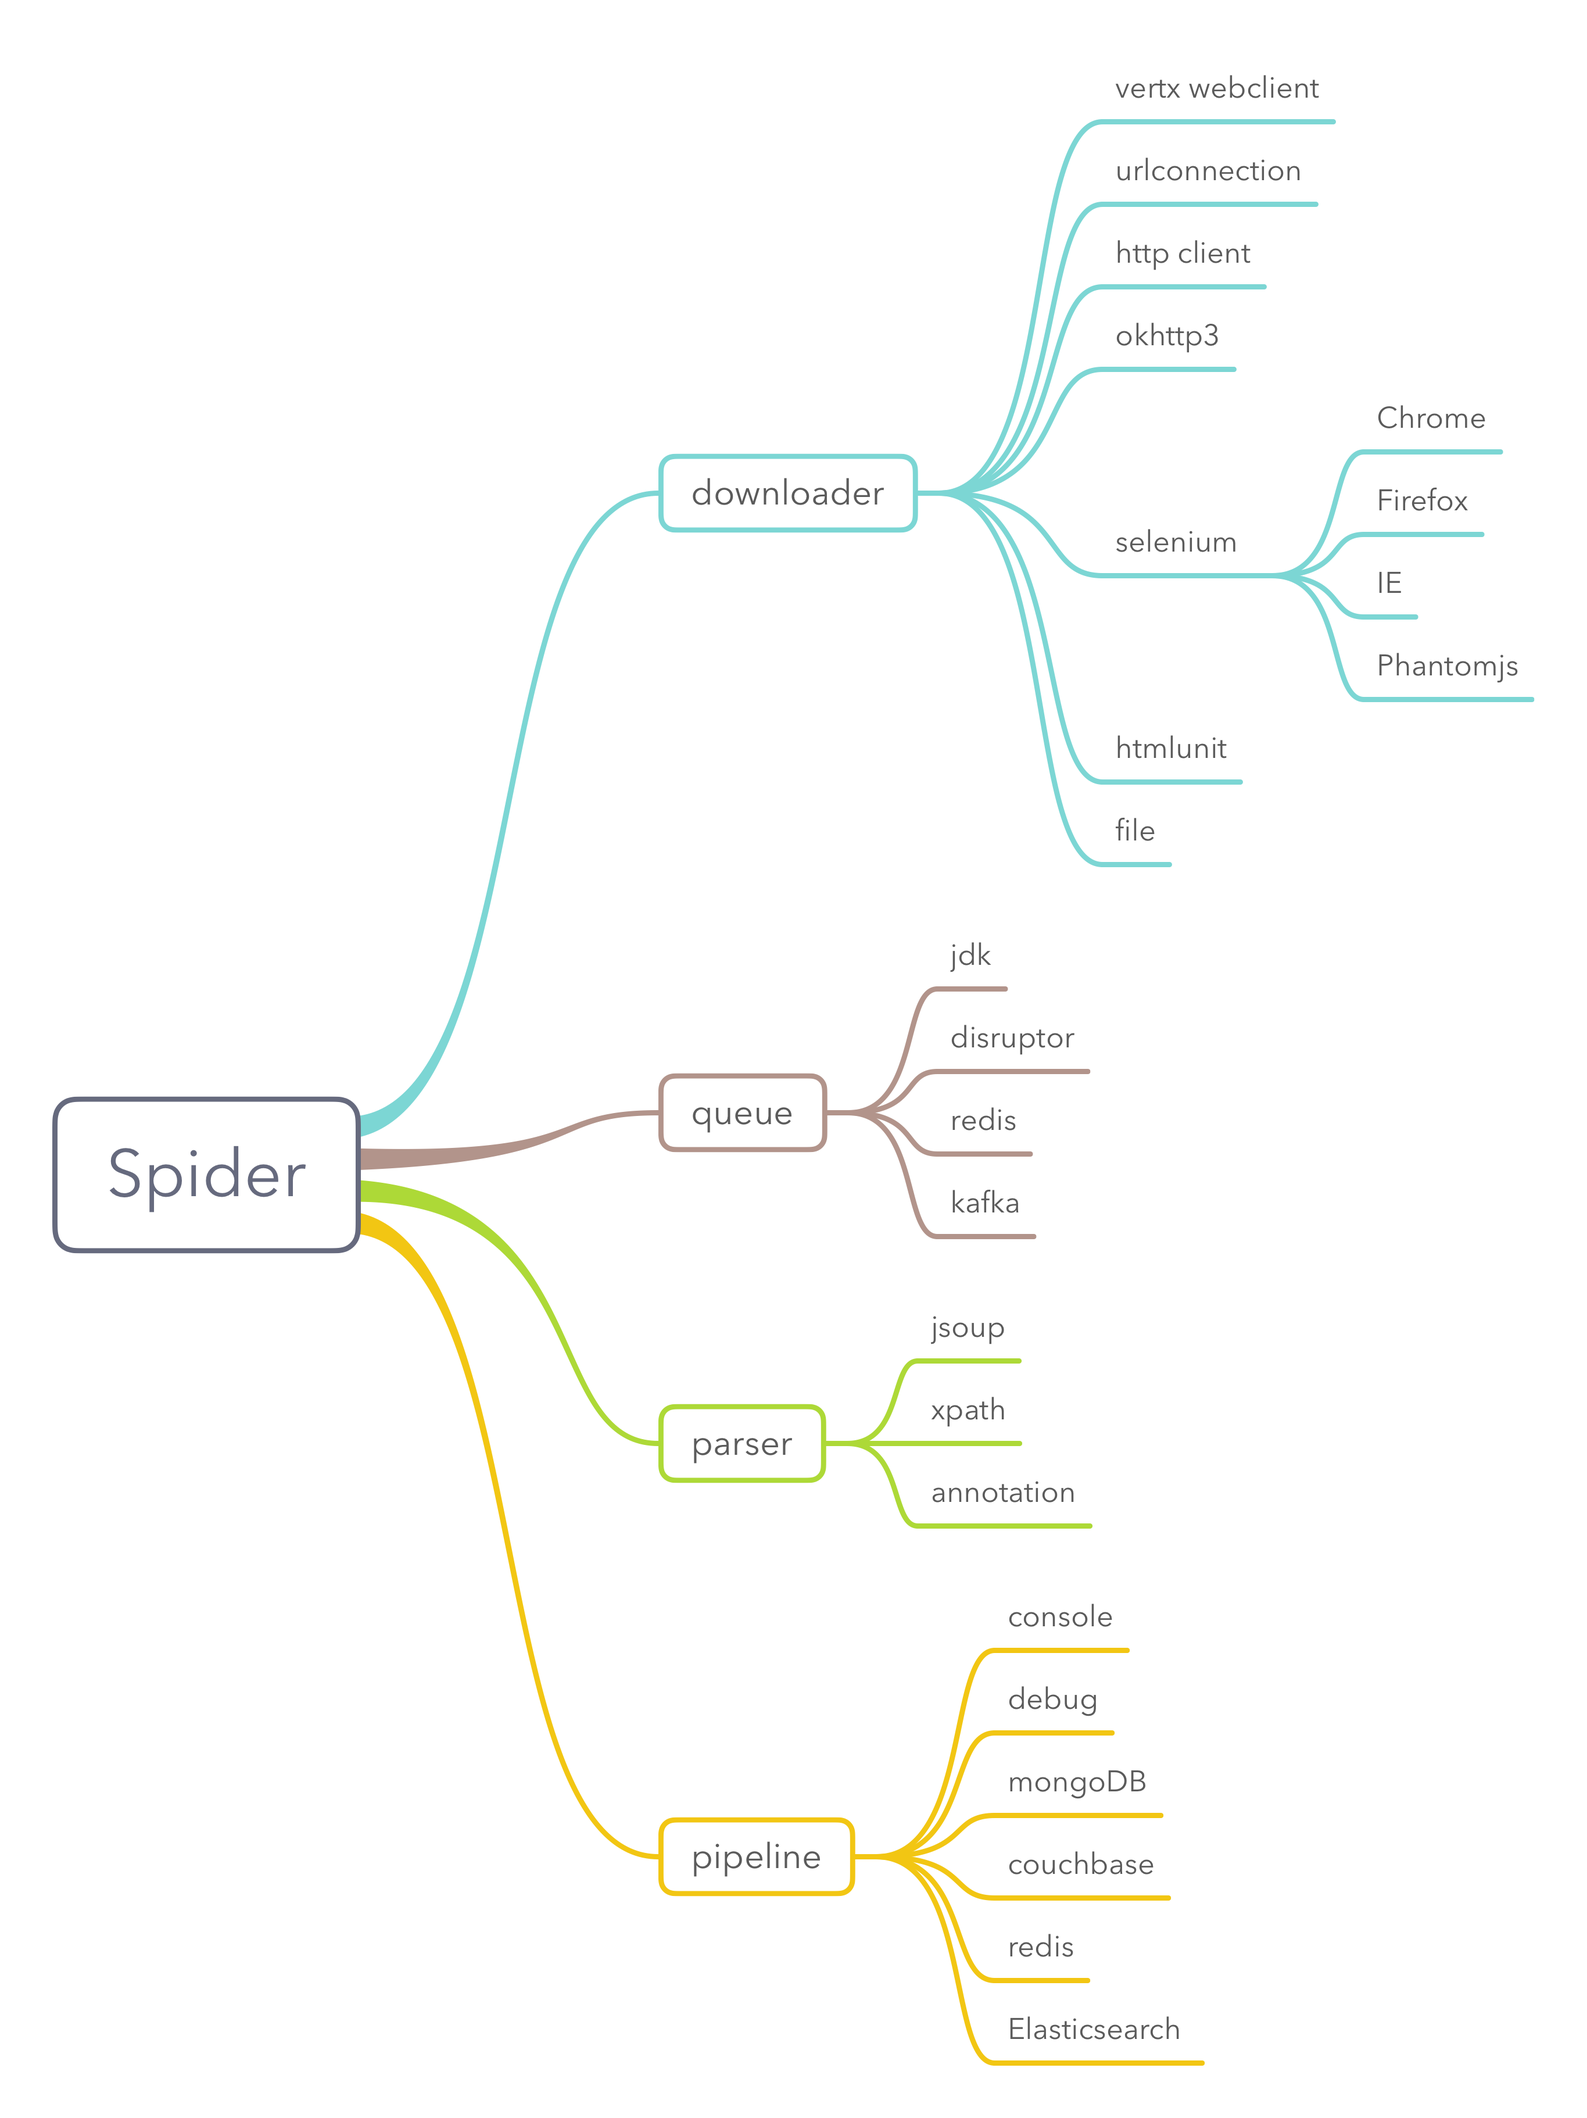
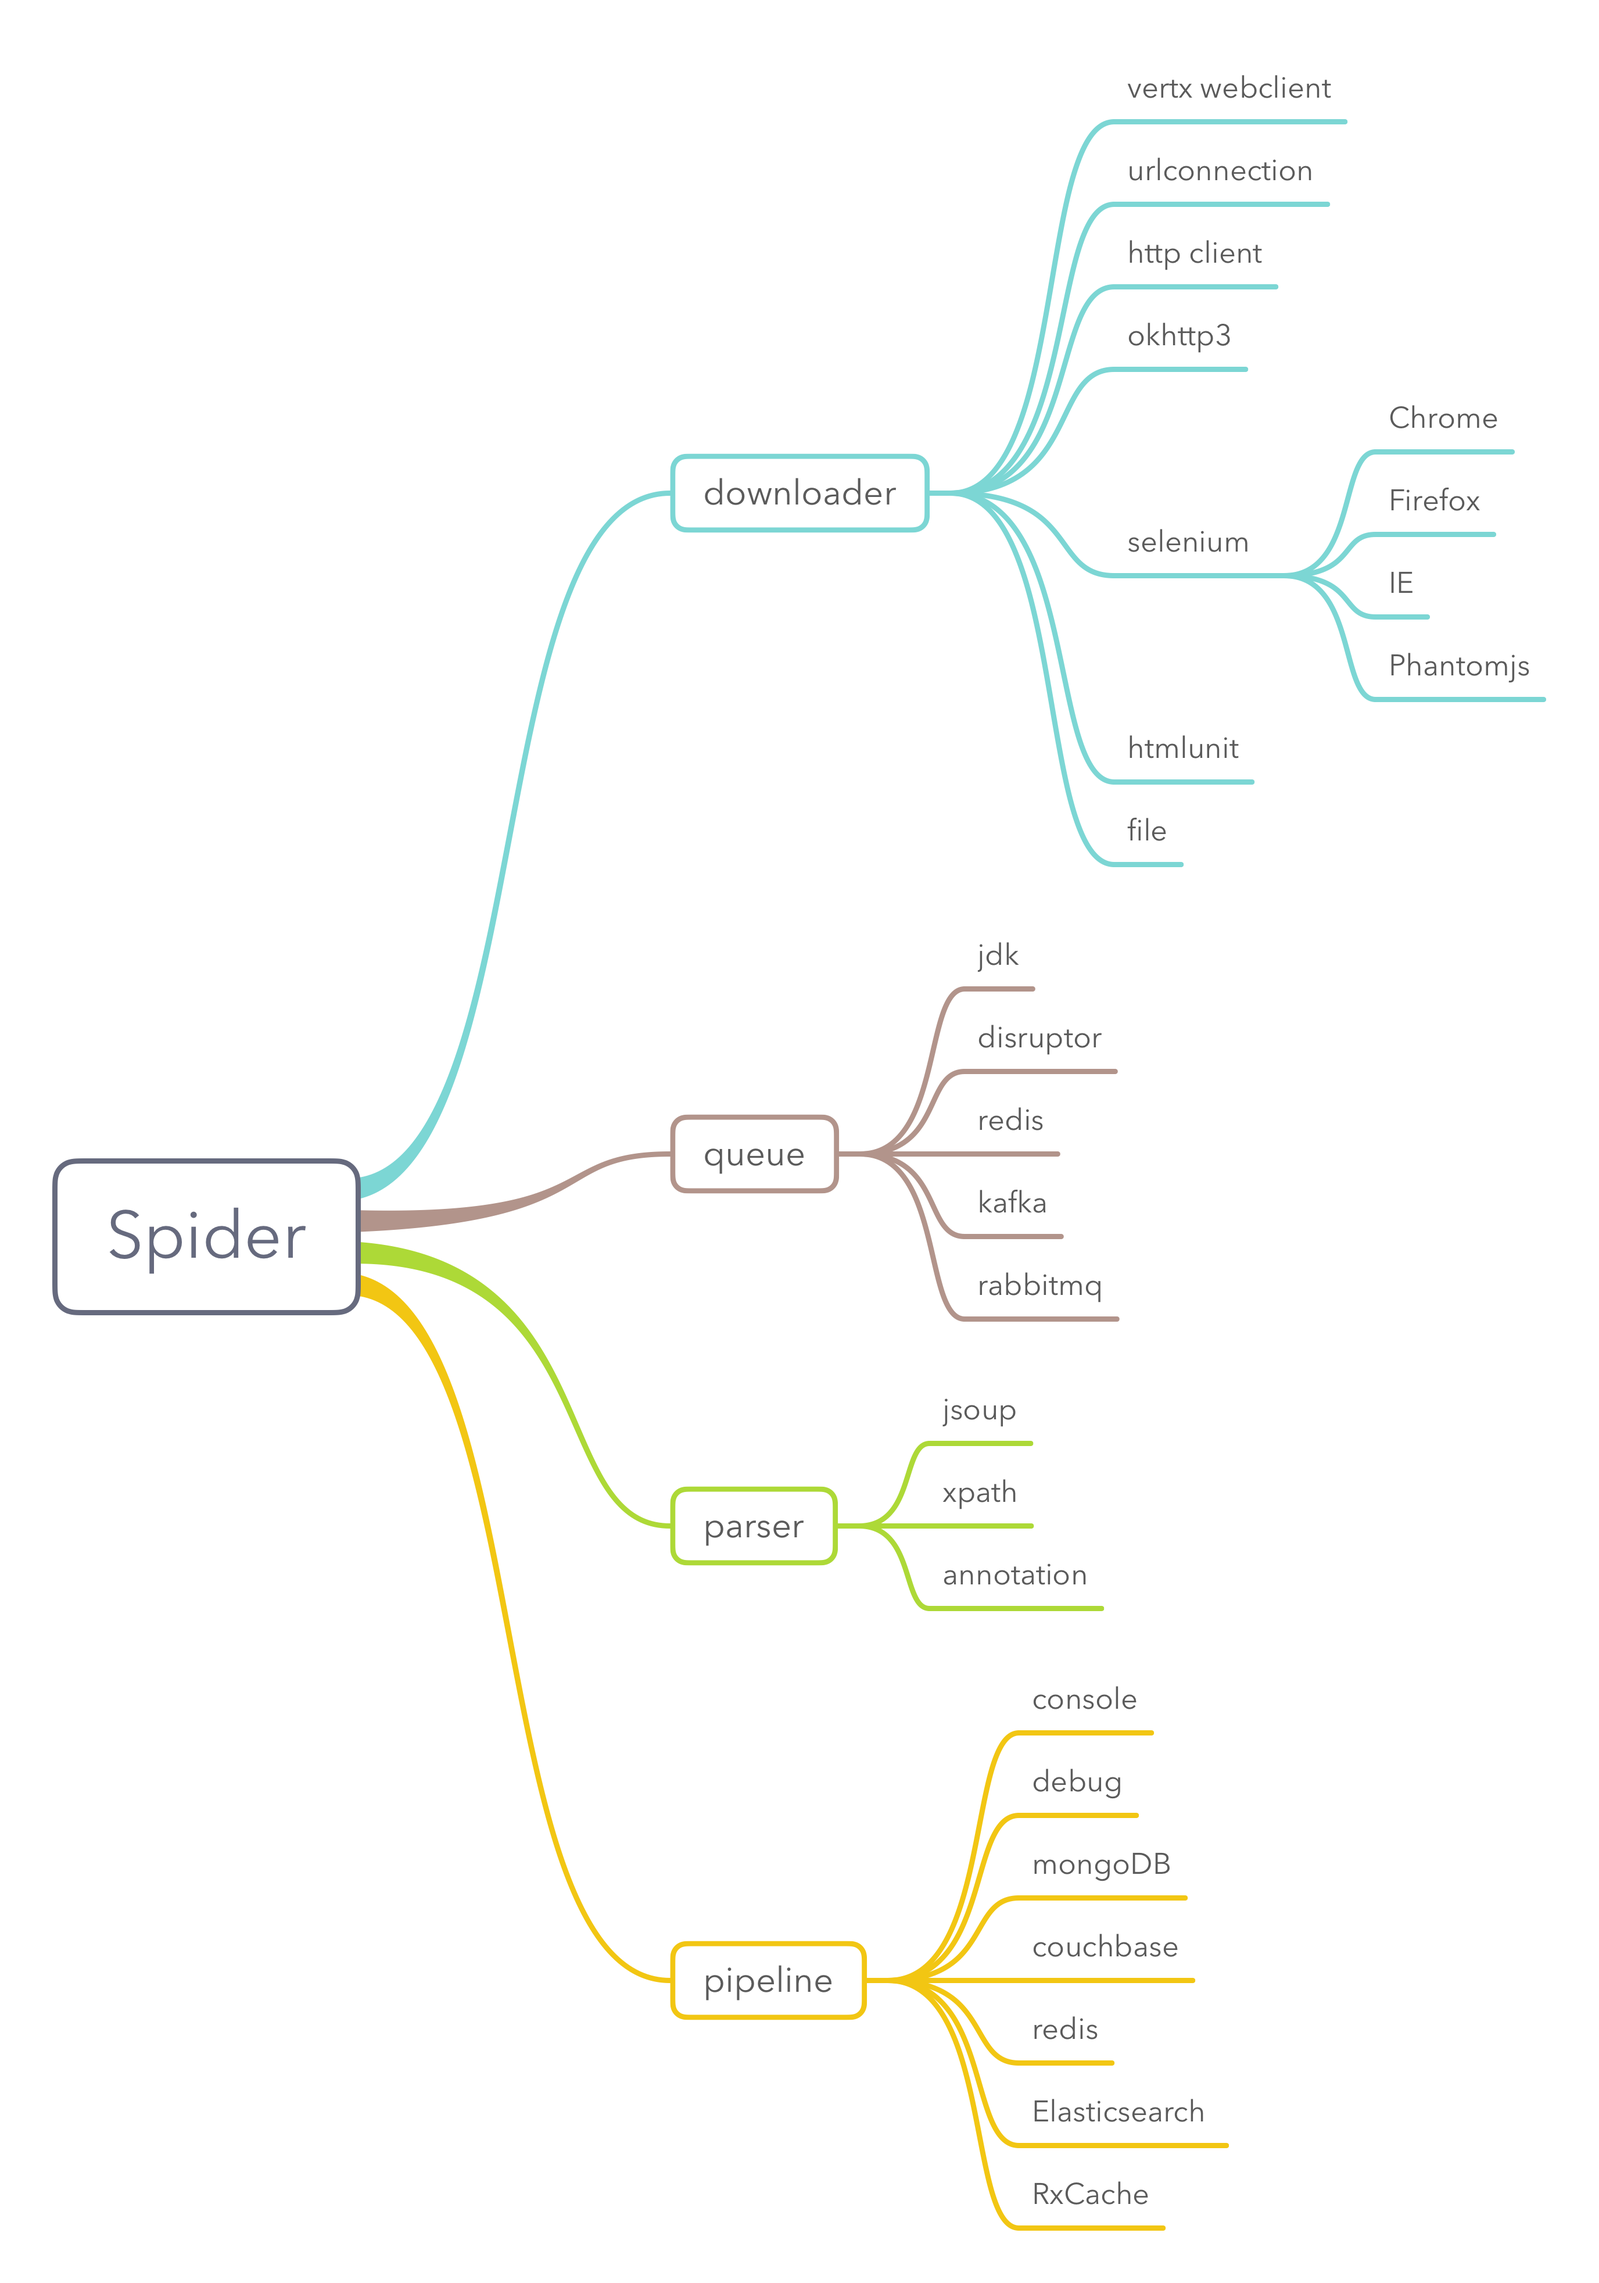
update readme.md

diff --git a/README.md b/README.md
@@ -32,32 +32,32 @@ repositories {
 netdiscovery-core
 
 ```groovy
-implementation 'com.cv4j.netdiscovery:netdiscovery-core:0.3.0'
+implementation 'com.cv4j.netdiscovery:netdiscovery-core:0.3.1'
 
 ```
 
 netdiscovery-extra
 
 ```groovy
-implementation 'com.cv4j.netdiscovery:netdiscovery-extra:0.3.0'
+implementation 'com.cv4j.netdiscovery:netdiscovery-extra:0.3.1'
 ```
 
 netdiscovery-selenium
 
 ```groovy
-implementation 'com.cv4j.netdiscovery:netdiscovery-selenium:0.3.0'
+implementation 'com.cv4j.netdiscovery:netdiscovery-selenium:0.3.1'
 ```
 
 netdiscovery-dsl
 
 ```groovy
-implementation 'com.cv4j.netdiscovery:netdiscovery-dsl:0.3.0'
+implementation 'com.cv4j.netdiscovery:netdiscovery-dsl:0.3.1'
 ```
 
 netdiscovery-coroutines
 
 ```groovy
-implementation 'com.cv4j.netdiscovery:netdiscovery-coroutines:0.3.0'
+implementation 'com.cv4j.netdiscovery:netdiscovery-coroutines:0.3.1'
 ```
 
 # NetDiscovery 功能点：
@@ -193,14 +193,12 @@ http://localhost:{port}/netdiscovery/spider/{spiderName}/status
 
 # TODO List:
 
-1. 增加 Cooikes Pool
-2. 增加 RabbitMQ 的支持
-3. 增强 HtmlUnit 模块
-4. 整合[cv4j](https://github.com/imageprocessor/cv4j)以及 Tesseract，实现 OCR 识别的功能
-5. 从五个纬度控制爬取速度（Pipeline、Request、Domain、IP、Download_Delay），后期可支持交叉
-6. 增加可开启的http缓存配置
-7. 在同一个Spider里的链式爬取，默认附带上Cookies或者其他Header信息
-8. 在Pipeline或者ResultItem里可向爬取队列里继续补充爬取任务
+1. 增强 HtmlUnit 模块
+2. 整合[cv4j](https://github.com/imageprocessor/cv4j)以及 Tesseract，实现 OCR 识别的功能
+3. 从五个纬度控制爬取速度（Pipeline、Request、Domain、IP、Download_Delay），后期可支持交叉
+4. 增加可开启的 http 缓存配置
+5. 在同一个 Spider 里的链式爬取，默认附带上 Cookies 或者其他 Header 信息
+6. 在 Pipeline 或者 ResultItem 里可向爬取队列里继续补充爬取任务
 
 # Contributors：
 
